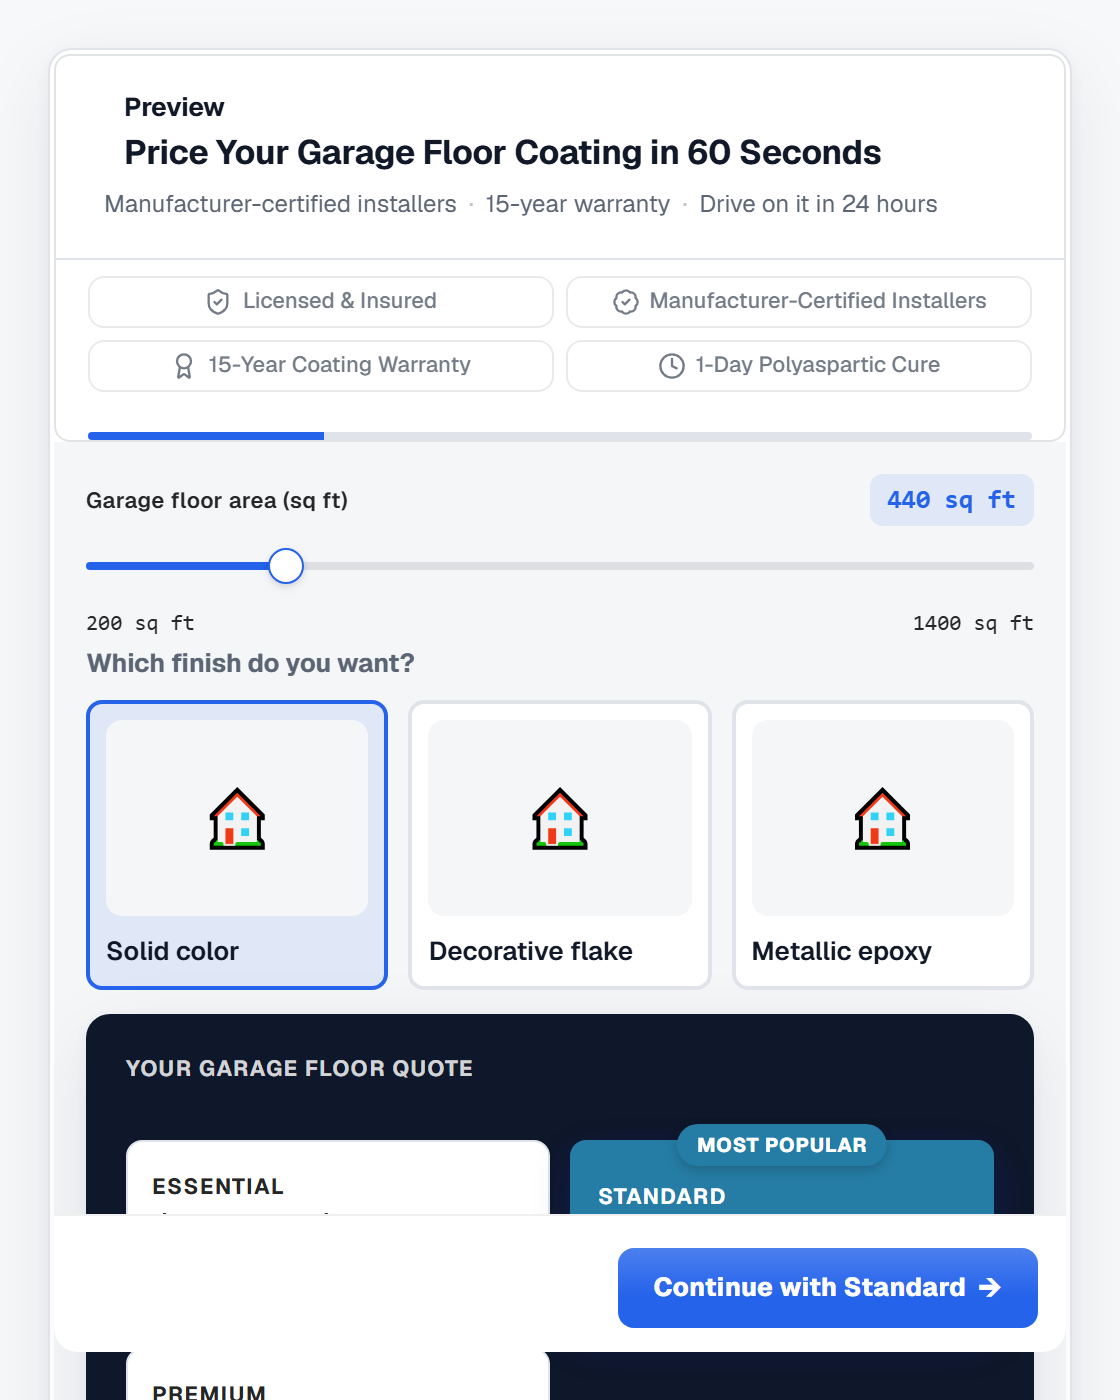
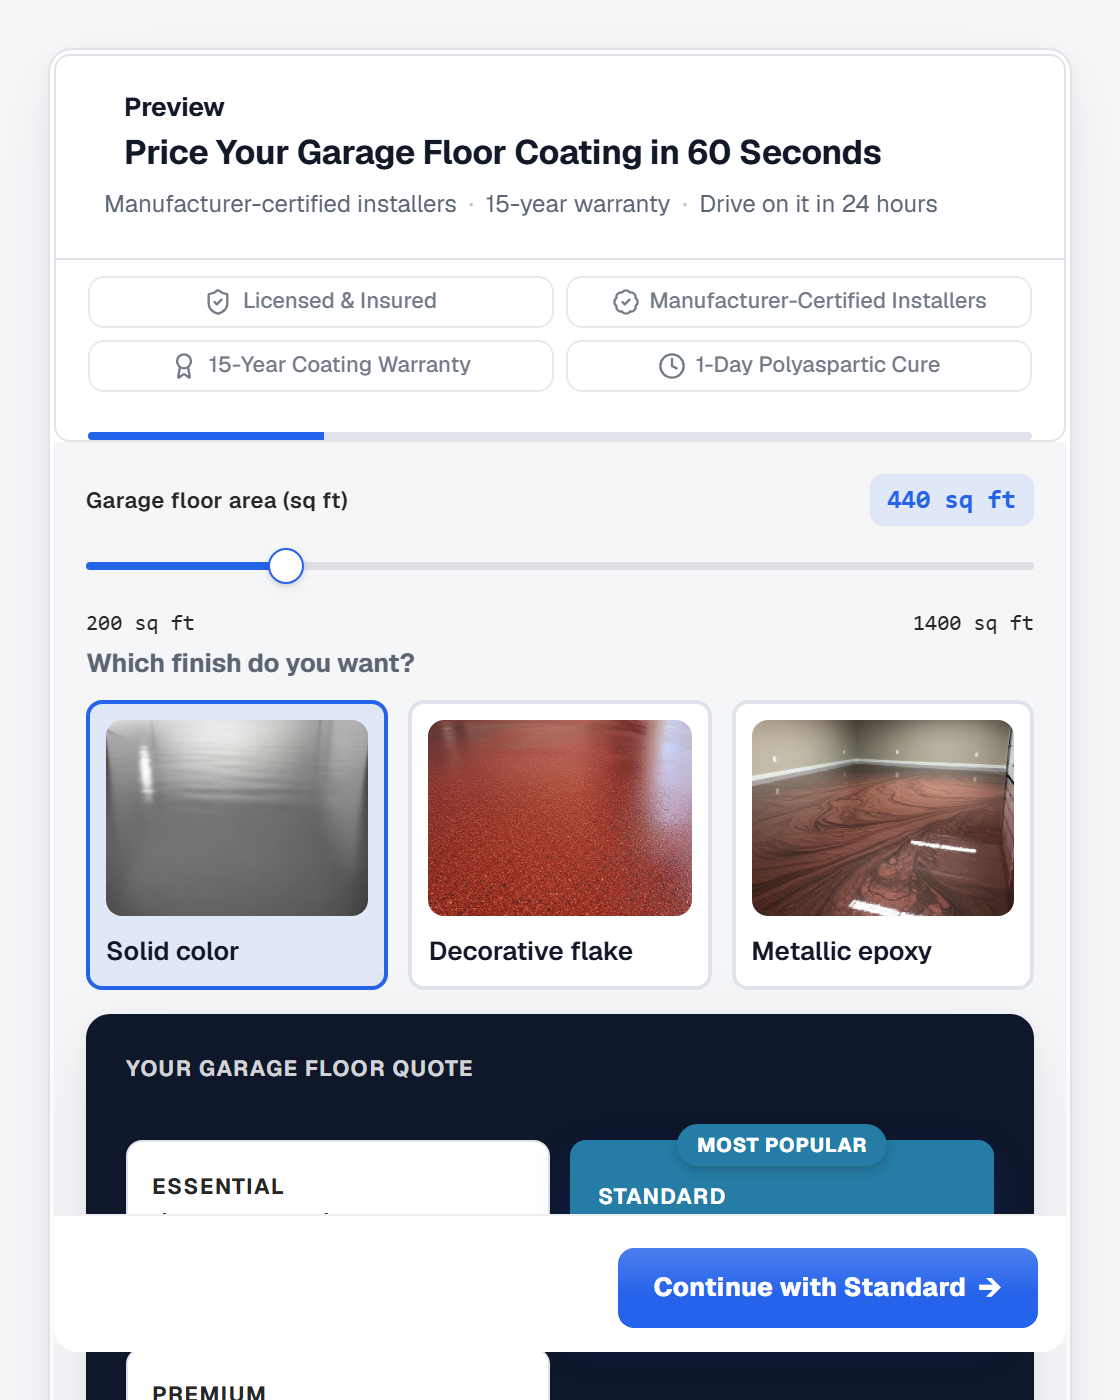
fix(thumbnails): render image_choice card images + harden generator image wait
Root cause: the `image_choice` field renderer read `o.image` (data-URL
uploaded in the editor), but template presets built with `optImg` populate
`o.imageUrl` (the image-card radio prop). Every preset image_choice card
therefore fell through to the 🏠 placeholder — mobile_mechanic plus 13 other
templates (countertops, garage-floor, asphalt, pavers, retaining wall,
irrigation, holiday lights, turf, vehicle wrap, window tinting, land survey).

- AdvancedCalculator: image_choice card `src` now falls back to `imageUrl`;
  add `imageUrl?` to AdvOption.
- generate-template-thumbnails: after render-ready, wait for networkidle +
  every <img> to load/decode (bounded 8s, non-silent catch) so screenshots
  can never fire before imagery is present.
- Regenerated all 123 thumbnails (14 changed: the image_choice set + the two
  restyled roof presets).

Note: kitchen_renovation's sticky action footer overlaps the Premium tier
card at the fixed 560×700 frame — intentional sticky-shell behavior, not a
crop artifact; flagged for a component follow-up (out of scope here).

Changed region(s): [[0.375, 0.4914, 0.625, 0.6757], [0.6562, 0.4914, 0.9062, 0.6757], [0.0938, 0.4914, 0.3438, 0.6757]]

diff --git a/scripts/generate-template-thumbnails.ts b/scripts/generate-template-thumbnails.ts
@@ -32,6 +32,11 @@ const VIEWPORT_W = 560;
 const VIEWPORT_H = 700;
 const READY_SELECTOR = '[data-render-ready="true"]';
 const READY_TIMEOUT_MS = 15_000;
+// Upper bound (per template) on how long to wait for images to finish
+// loading/decoding after the render-ready flag flips. Kept well under the
+// anti-hang ceiling so a stubborn asset degrades gracefully rather than
+// stalling the run.
+const IMAGE_WAIT_TIMEOUT_MS = 8_000;
 
 async function snapOne(
   ctx: BrowserContext,
@@ -42,6 +47,49 @@ async function snapOne(
     const url = `${BASE_URL}/internal/template-render/${templateId}`;
     await page.goto(url, { waitUntil: "domcontentloaded" });
     await page.waitForSelector(READY_SELECTOR, { timeout: READY_TIMEOUT_MS });
+    // The render page flips `data-render-ready` on a 500ms settle timer, which
+    // can fire BEFORE option `<img>`s have fetched + decoded — the screenshot
+    // then captures generic house-emoji placeholders instead of the real
+    // imagery (observed on `mobile_mechanic`). Close the race explicitly:
+    //   1. Let the network go idle so in-flight image requests complete.
+    //   2. Wait for every `<img>` to report `complete` and successfully
+    //      `decode()` (or settle on error so a single broken asset can't hang
+    //      the whole run). Both steps are bounded so no template can block the
+    //      pipeline.
+    await page
+      .waitForLoadState("networkidle", { timeout: IMAGE_WAIT_TIMEOUT_MS })
+      .catch((err: Error) => {
+        // Bounded — networkidle not reaching quiescence is non-fatal (the
+        // per-image decode wait below is the real gate); surface it so a
+        // chronically slow template is visible rather than silently dropped.
+        console.warn(`[thumbnails] ${templateId}: networkidle wait — ${err.message}`);
+      });
+    await page
+      .evaluate(
+        (timeoutMs) =>
+          Promise.race([
+            Promise.all(
+              Array.from(document.images).map((img) =>
+                img.complete && img.naturalWidth > 0
+                  ? Promise.resolve()
+                  : new Promise<void>((resolve) => {
+                      const done = () => resolve();
+                      img.addEventListener("load", done, { once: true });
+                      img.addEventListener("error", done, { once: true });
+                      // decode() covers already-loaded-but-not-yet-decoded.
+                      if (img.decode) img.decode().then(done).catch(done);
+                    }),
+              ),
+            ).then(() => undefined),
+            new Promise<void>((resolve) => setTimeout(resolve, timeoutMs)),
+          ]),
+        IMAGE_WAIT_TIMEOUT_MS,
+      )
+      .catch((err: Error) => {
+        // Bounded — an in-page eval failure must not abort the whole run;
+        // log it so a broken decode path is visible instead of silent.
+        console.warn(`[thumbnails] ${templateId}: image-decode wait — ${err.message}`);
+      });
     await page.screenshot({
       path: path.join(OUT_DIR, `${templateId}@2x.png`),
       omitBackground: false,

diff --git a/client/src/components/quote-widget/AdvancedCalculator.tsx b/client/src/components/quote-widget/AdvancedCalculator.tsx
@@ -237,7 +237,7 @@ function applyStyleOverrides(base: WidgetTheme, style: AdvStyle | undefined): Wi
 
 /* ─── Config types (mirror calculator_settings.advanced) ─── */
 
-interface AdvOption { id: string; label: string; value: number; image?: string; }
+interface AdvOption { id: string; label: string; value: number; image?: string; imageUrl?: string; }
 interface AdvField {
   id: string;
   name: string;
@@ -5766,9 +5766,18 @@ function FieldInput({ field, value, accent, theme, bodyIsDark, onChange, radiusP
                   background: c.bg, overflow: 'hidden',
                   display: 'flex', alignItems: 'center', justifyContent: 'center',
                 }}>
-                  {o.image
-                    ? <img src={o.image} alt={richHtmlToPlainText(o.label)} style={{ width: '100%', height: '100%', objectFit: 'cover' }} />
-                    : <span aria-hidden="true" style={{ fontSize: '28px', color: c.textMuted }}>🏠</span>}
+                  {(() => {
+                    // image_choice cards render from `image` (data URL uploaded
+                    // in the editor). Template presets built with `optImg`
+                    // populate `imageUrl` instead (the image-card radio prop),
+                    // so fall back to it — otherwise every preset image_choice
+                    // card silently shows the 🏠 placeholder (observed on
+                    // mobile_mechanic and all other optImg image_choice fields).
+                    const cardImg = o.image ?? o.imageUrl;
+                    return cardImg
+                      ? <img src={cardImg} alt={richHtmlToPlainText(o.label)} style={{ width: '100%', height: '100%', objectFit: 'cover' }} />
+                      : <span aria-hidden="true" style={{ fontSize: '28px', color: c.textMuted }}>🏠</span>;
+                  })()}
                 </div>
                 {/* BG-7 Item 3 — sanitized rich-text label. */}
                 {(() => {
